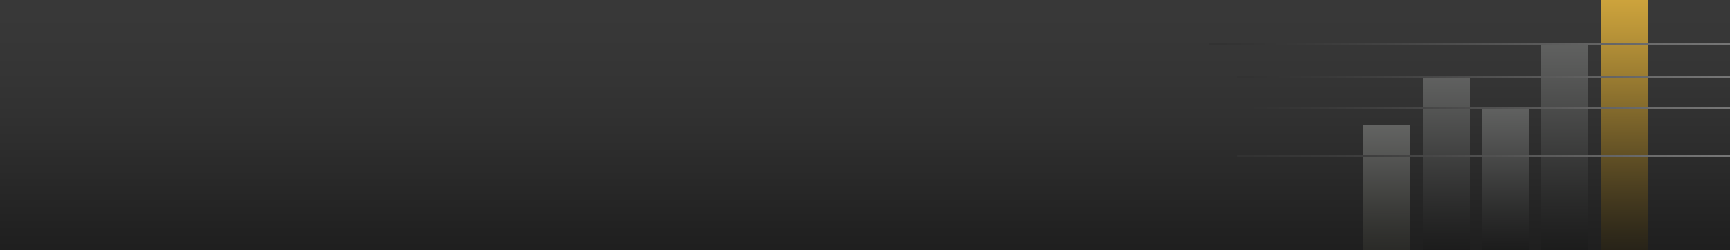
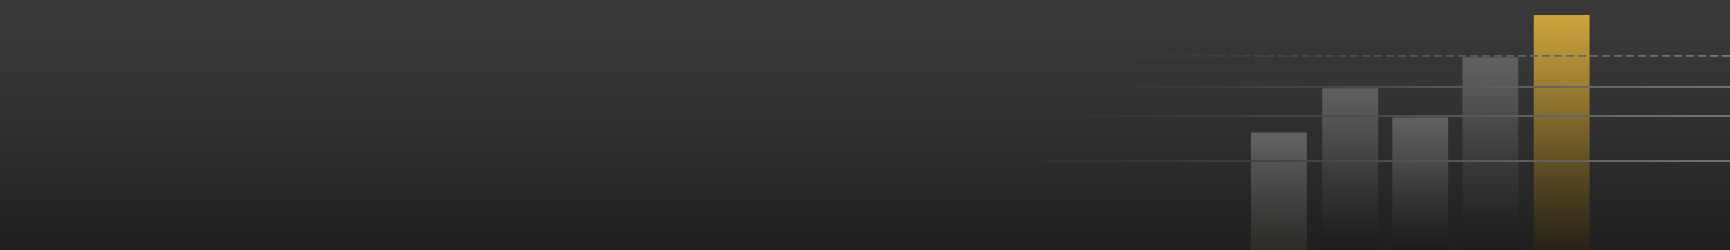
배경을 업데이트하고 메인화면의 css를 완성했습니다.

Changed region(s): [[0.7179, 0.0, 1.0, 0.868]]

diff --git a/css/studentHome.css b/css/studentHome.css
@@ -1,6 +1,7 @@
 .slide-0 {
   background-image: url("https://raw.githubusercontent.com/HyeokjinKang/better-benedu/master/contents/header.png") !important;
-  background-position: center;
+  background-repeat: no-repeat;
+  background-position: right; 
   background-size: cover;
 }
 

diff --git a/css/global.css b/css/global.css
@@ -25,6 +25,10 @@ img.pull-left {
   width: 60px !important;
 }
 
+.sidebar-shortcuts {
+  display: none;
+}
+
 .sidebar-shortcuts-mini {
   margin-left: 9px;
 }
